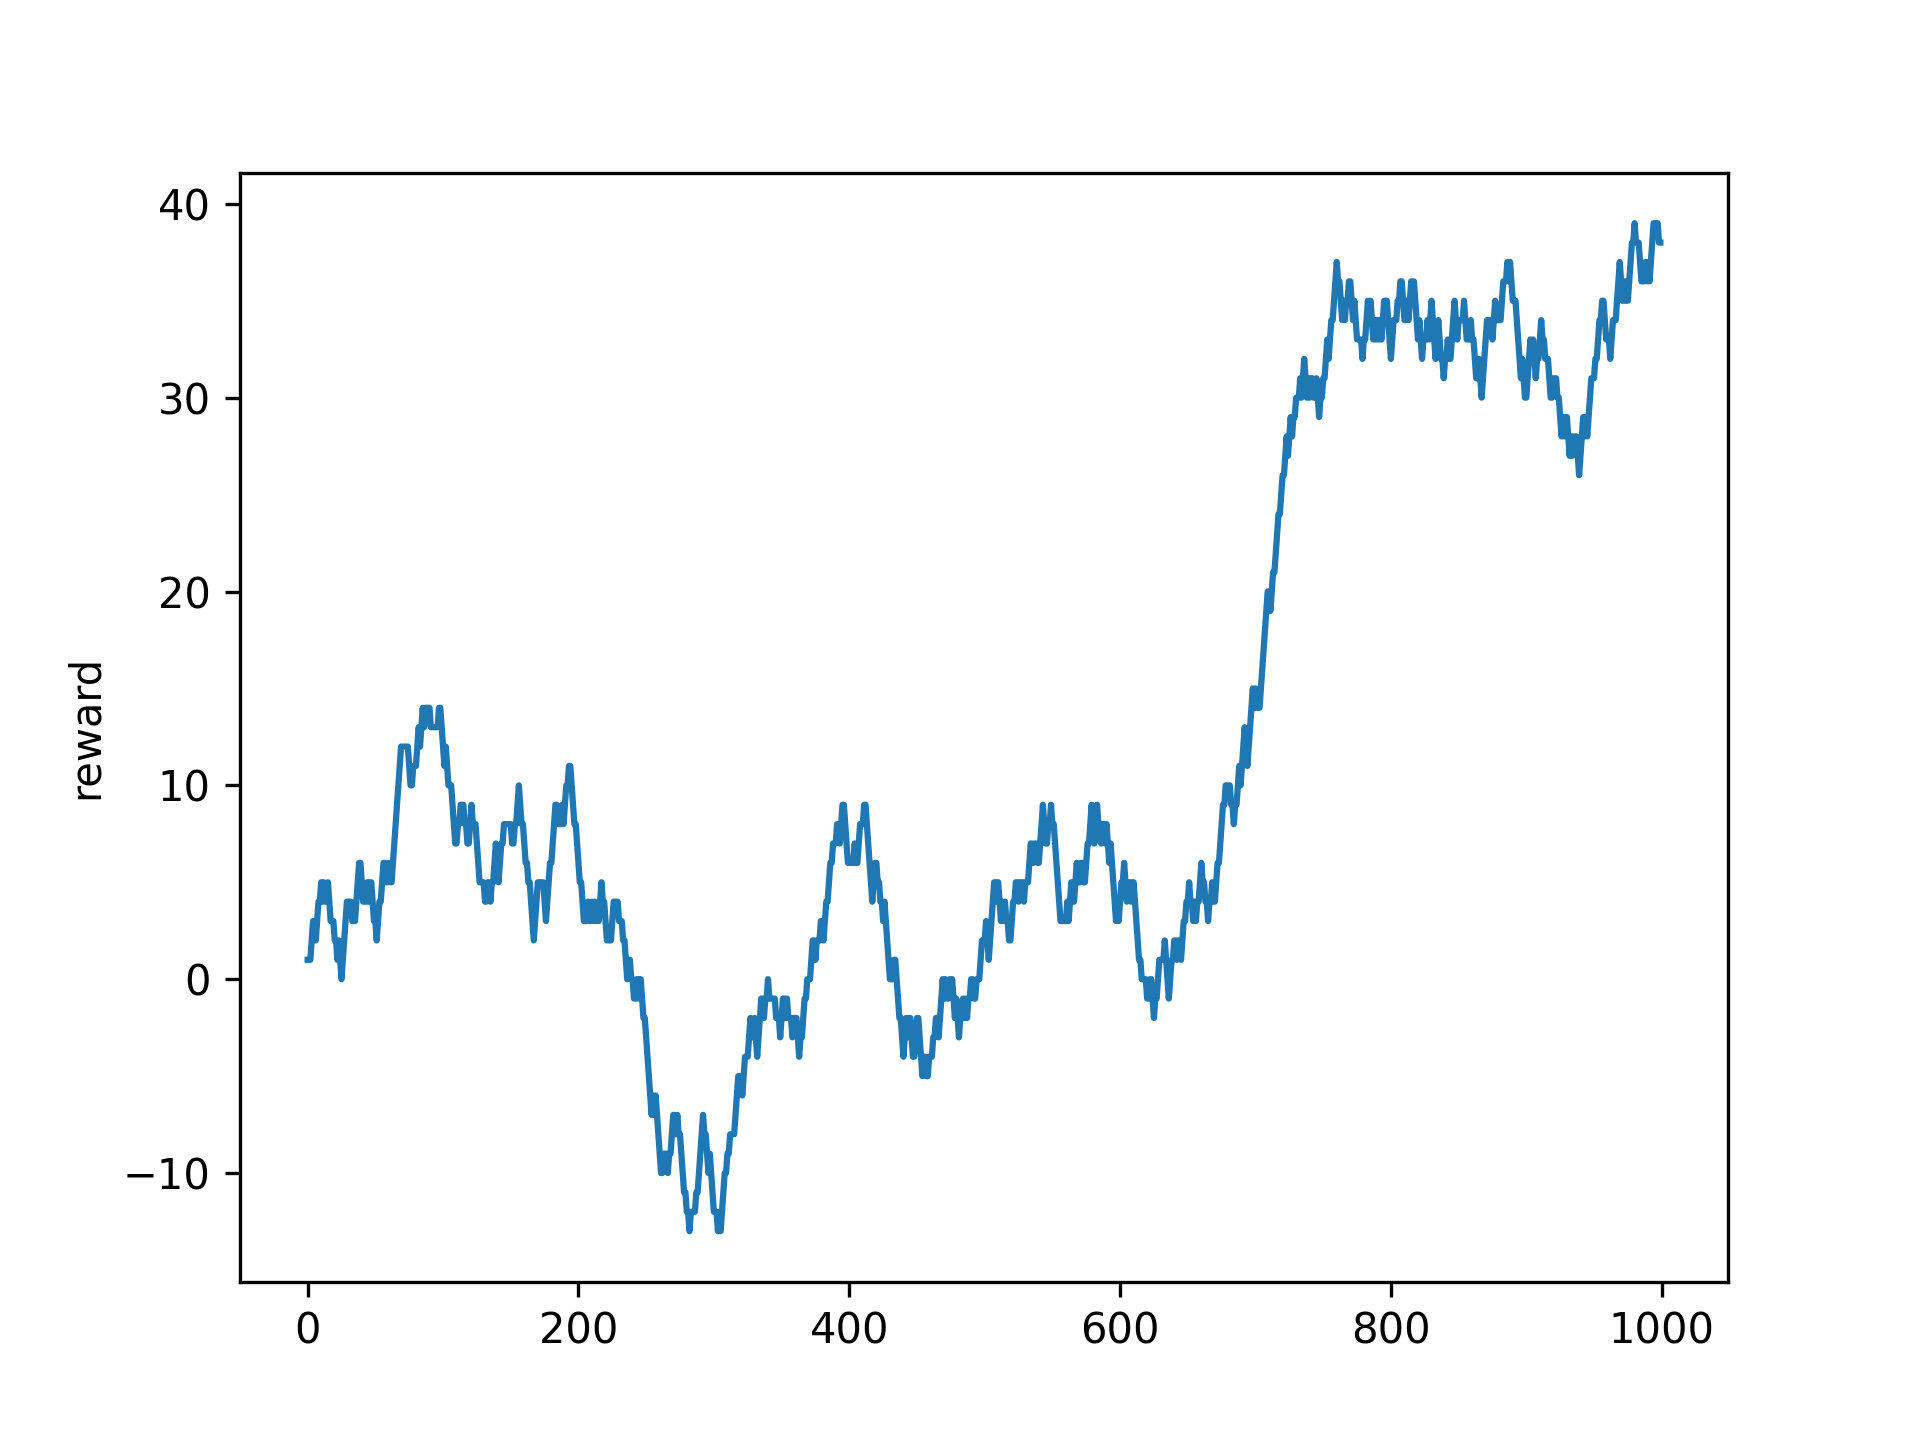
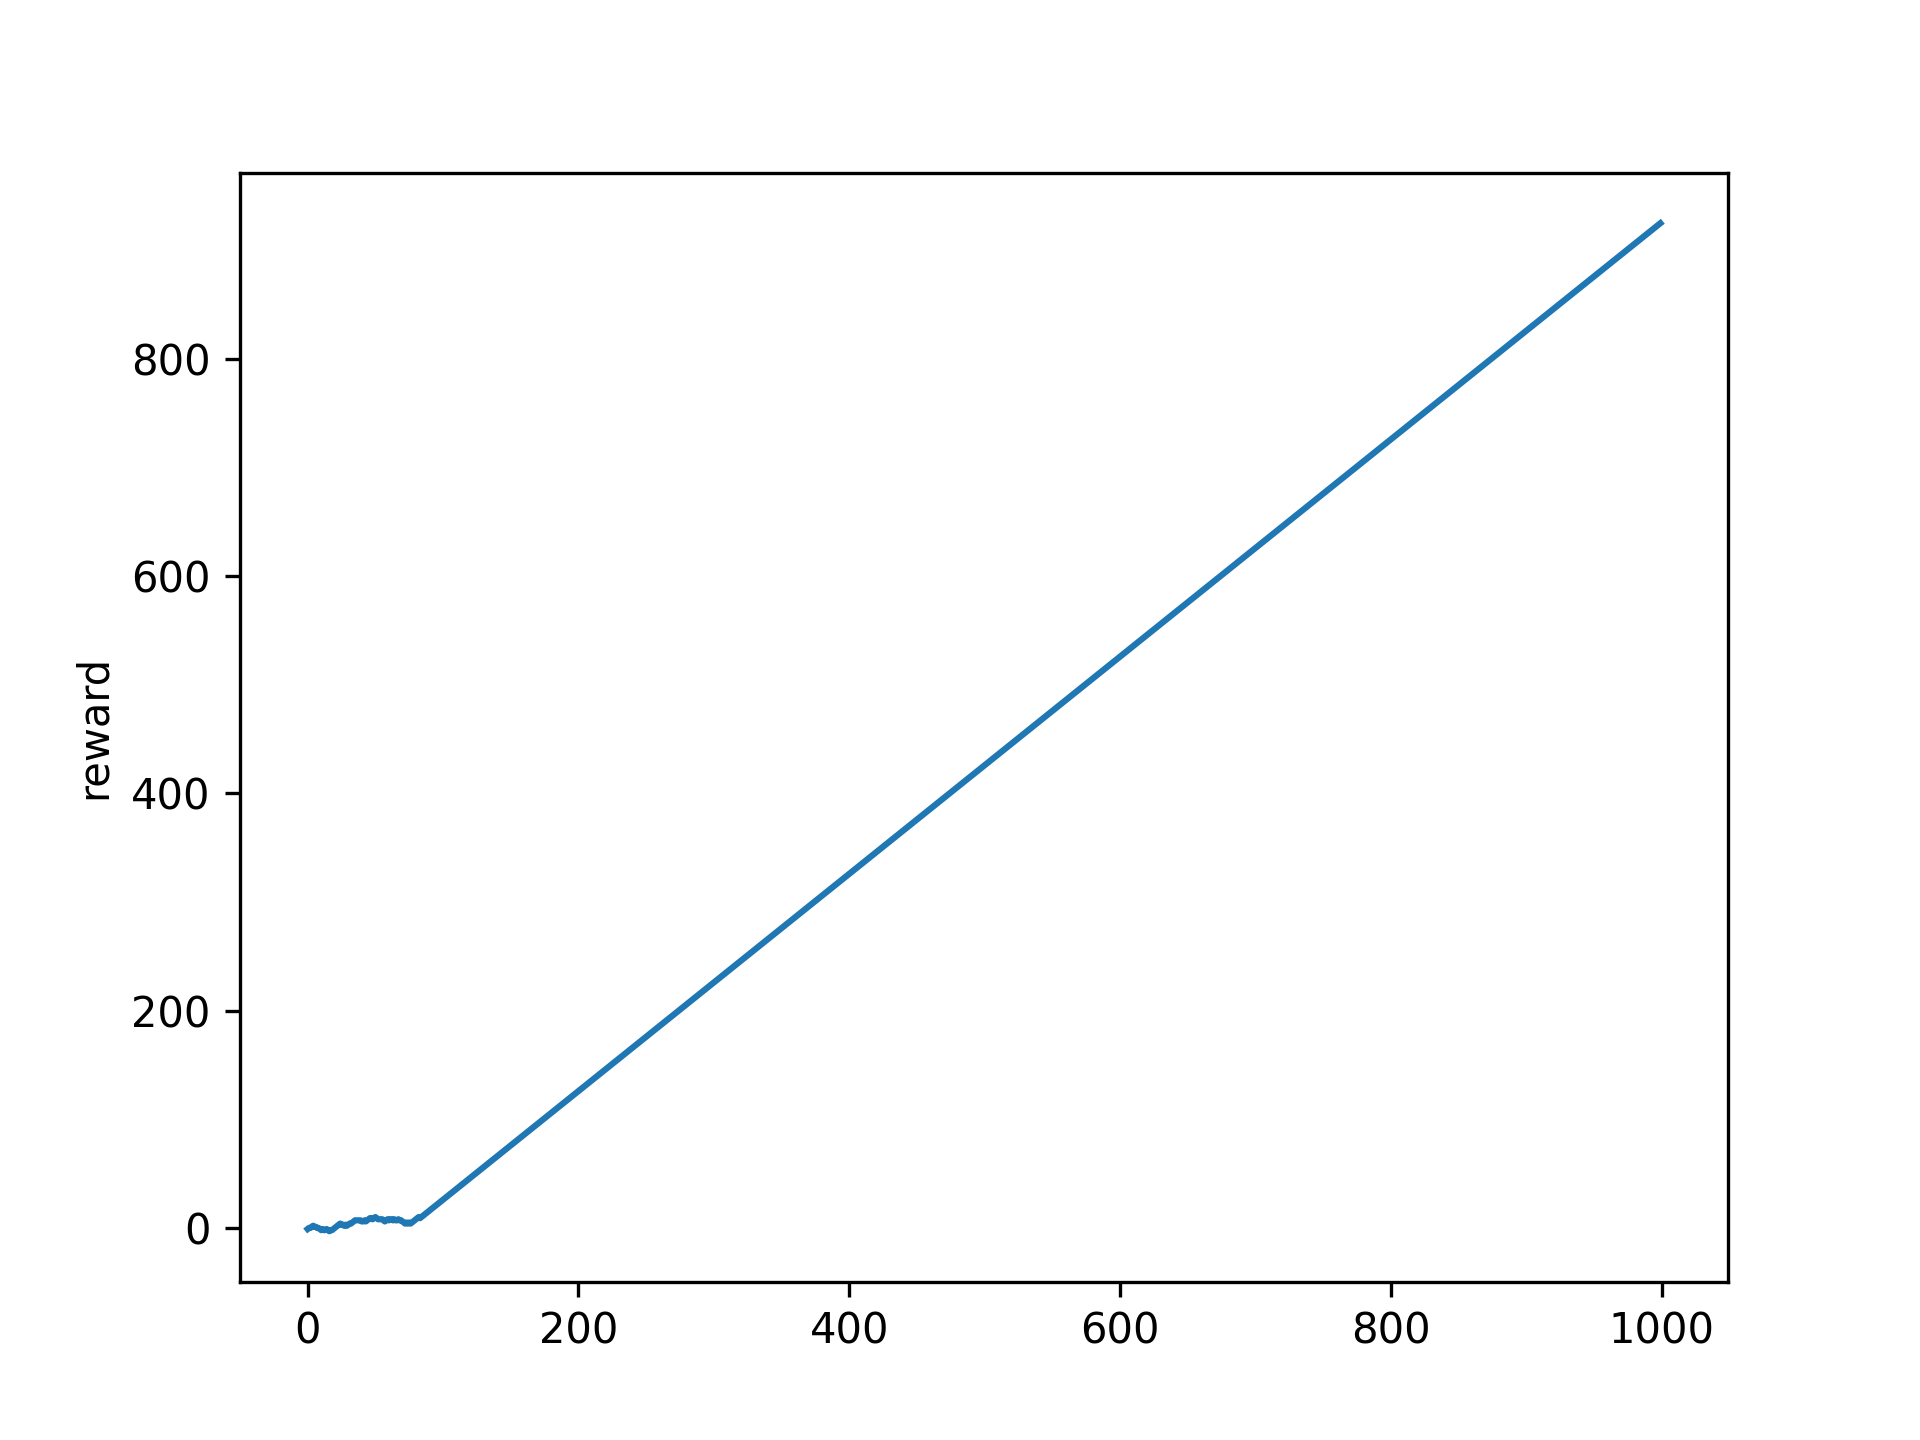
more and more

diff --git a/rps_agent.py b/rps_agent.py
@@ -6,7 +6,8 @@ import numpy as np
 from abc import abstractmethod
 import math
 import secrets
-
+from xgboost import XGBClassifier
+import pandas as pd
 
 class Model():
     def __init__(self):
@@ -19,6 +20,49 @@ class Model():
     def action(self):
         return self.tactic
 
+class Xgboost(Model):
+    def __init__(self):
+        self.numTurnsPredictors = 5 #number of previous turns to use as predictors
+        self.minTrainSetRows = 10 #only start predicting moves after we have enough data
+        self.myLastMove = None
+        self.mySecondLastMove = None
+        self.opponentLastMove = None
+        self.numDummies = 2 #how many dummy vars we need to represent a move
+        self.predictors = pd.DataFrame(columns=[str(x) for x in range(self.numTurnsPredictors * 2 * self.numDummies)]).astype("int")
+        self.opponentsMoves = [0] * 1000
+        self.roundHistory = [None] * 1000
+        self.dummies = [[[0,0,0,0], [0,1,0,0], [1,0,0,0]], [[0,0,0,1], [0,1,0,1], [1,0,0,1]], [[0,0,1,0], [0,1,1,0], [1,0,1,0]]]
+        self.clf = XGBClassifier(n_estimators=10)
+
+    def updateFeatures(self, rounds):
+        self.predictors.loc[len(self.predictors)] = sum(rounds, [])
+
+    def fitAndPredict(self, x, y, newX):
+        self.clf.fit(x.values, y)
+        return int(self.clf.predict(np.array(newX).reshape((1,-1)))[0])
+
+    def train(self, my_actions, op_actions, reward, step, configuration):
+        T = step
+        A = op_actions[-1]
+        S = configuration.signs
+        self.myLastMove = A
+        self.roundHistory[T-1] = self.dummies[self.myLastMove][A]
+        if T == 1:
+            self.myLastMove = secrets.randbelow(S)
+        else:
+            self.opponentsMoves[T-2] = A
+            if T > self.numTurnsPredictors:
+                self.updateFeatures(self.roundHistory[:T][-self.numTurnsPredictors - 1: -1])
+
+            if len(self.predictors) > self.minTrainSetRows:
+                predictX = sum(self.roundHistory[:T][-self.numTurnsPredictors:], []) #data to predict next move
+                predictedMove = self.fitAndPredict(self.predictors, self.opponentsMoves[:T-1][(self.numTurnsPredictors-1):], predictX)
+                self.myLastMove = (predictedMove + 1) % S
+            else:
+                self.myLastMove = secrets.randbelow(S)
+
+    def action(self):
+        return int(self.myLastMove)          
 
 class PatternAggressive(Model):
     def __init__(self):
@@ -223,12 +267,15 @@ class DecisionTreeModel(Model):
             self.tactic = random.randint(0, 2)
         else:
             # Make One hot encoding
-            onehot_acts = np.zeros([len(my_actions)-self.rolling_window_size+1, 30])
+            onehot_acts = np.zeros(
+                [len(my_actions)-self.rolling_window_size+1, 30])
             y_train = np.zeros([len(my_actions)-self.rolling_window_size, 3])
             for i in range(self.rolling_window_size, len(my_actions)+1):
                 for j in range(1, self.rolling_window_size+1):
-                    onehot_acts[i-self.rolling_window_size][my_actions[i-j]+self.rolling_window_size+1*(j-1)] = 1
-                    onehot_acts[i-self.rolling_window_size][op_actions[i-j]+self.rolling_window_size+1*(j-1)+3] = 1
+                    onehot_acts[i-self.rolling_window_size][my_actions[i-j] +
+                                                            self.rolling_window_size+1*(j-1)] = 1
+                    onehot_acts[i-self.rolling_window_size][op_actions[i-j] +
+                                                            self.rolling_window_size+1*(j-1)+3] = 1
                 if i != len(my_actions):
                     y_train[i-self.rolling_window_size][op_actions[i]] = 1
             X_train = onehot_acts
@@ -297,46 +344,64 @@ class TransitionMatrix():
 
 class YapSapModel(Model):
     def __init__(self, frequency=10):
-        self.strategy = "PA"
+        self.strategy = "DT"
         self.init_frequency = frequency
         self.frequency = frequency
         self.iteration = 0
         self.tactic = 0
         self.prev_reward, self.curr_reward = 0, 0
-        self.strategy_history = {"TM": [], "DT": [], "MP": [], "PA":[]}
-        self.strategy_score = {"TM": [], "DT": [], "MP": [], "PA":[]}
+        self.strategy_history = {"TM": [], "DT": [], "MP": [], "PA": [], "XG" : []}
+        self.strategy_score = {"TM": [], "DT": [], "MP": [], "PA": [], "XG" : []}
         self.strategy_models = {"TM": TransitionMatrix(
-        ), "DT": DecisionTreeModel(), "MP": NumpyPatterns(), "PA":PatternAggressive()}
+        ), "DT": DecisionTreeModel(), "MP": NumpyPatterns(), "PA": PatternAggressive(), "XG" : Xgboost()}
 
-    def _get_zone(self, reward):
-        if reward <= -20:
-            return "Severe"
-        if reward <= -15:
-            return "Very Dangerous"
-        elif reward <= -10:
-            return "Dangerous"
-        elif reward <= 10:
-            return "Ok"
-        elif reward <= 15:
-            return "Try Harder"
-        elif reward < 20:
-            return "Almost There"
-        elif reward <= 30:
-            return "Pretty Good"
+    def _get_zone(self, reward, step):
+        if step < 900:
+            if reward <= -20:
+                return "Severe"
+            if reward <= -15:
+                return "Very Dangerous"
+            elif reward <= -10:
+                return "Dangerous"
+            elif reward <= 10:
+                return "Ok"
+            elif reward <= 15:
+                return "Try Harder"
+            elif reward < 20:
+                return "Almost There"
+            elif reward <= 30:
+                return "Pretty Good"
+            else:
+                return "Relax"
         else:
-            return "Relax"
+            if reward <= -20:
+                return "Severe"
+            if reward <= -15:
+                return "Very Dangerous"
+            elif reward <= -10:
+                return "Dangerous"
+            elif reward <= 0:
+                return "Try Harder"
+            elif reward <= 15:
+                return "Almost There"
+            elif reward < 20:
+                return "Almost There"
+            elif reward <= 30:
+                return "Pretty Good"
+            else:
+                return "Relax"
 
     def _update_frequency(self, reward, step):
-        zone = self._get_zone(reward)
+        zone = self._get_zone(reward, step)
         print(zone)
         if zone in ["Severe", "Almost There"]:
-            self.frequency = self.init_frequency - random.randint(6, 9)
+            self.frequency = self.init_frequency - random.randint(7, 10)
         elif zone in ["Very Dangerous", "Dangerous", "Try Harder"]:
-            self.frequency = self.init_frequency - random.randint(2, 5)
+            self.frequency = self.init_frequency - random.randint(4, 7)
         elif zone in ["Ok"]:
             self.frequency = self.init_frequency
         elif zone in ["Pretty Good", "Relax"]:
-            self.frequency = self.init_frequency + random.randint(6, 9)
+            self.frequency = self.init_frequency + random.randint(7, 10)
 
     @staticmethod
     def _measure_performance(strategy_history, op_actions):
@@ -352,7 +417,7 @@ class YapSapModel(Model):
         return reward
 
     def _update_strategy(self, op_actions, step):
-        if len(self.strategy_history[self.strategy]) < 5:
+        if self.strategy is not None and len(self.strategy_history[self.strategy]) < 10:
             return
         for strategy in self.strategy_history.keys():
             print(strategy, self.strategy_score[strategy])
@@ -361,11 +426,15 @@ class YapSapModel(Model):
 
         self.strategy = max(self.strategy_score, key=self.strategy_score.get)
 
-        if self.strategy_score[self.strategy] < -2 and step < 800:
-            self.strategy = None
-        # elif self.strategy_score[self.strategy] > 1:
-        #     # More aggressive
-        #     self.frequency=self.init_frequency - random.randint(6, 9)
+        if self.strategy is not None:
+            if self.strategy_score[self.strategy] < 1 and step < 800:
+                self.strategy = None
+            elif self.strategy_score[self.strategy] == 4:
+                # More aggressive
+                self.frequency = self.init_frequency - random.randint(7, 9)
+            elif self.strategy_score[self.strategy] == 5:
+                # More aggressive
+                self.frequency = 0
 
     def train(self, my_actions, op_actions, reward, step, configuration):
         import random
@@ -414,7 +483,7 @@ def update_score(reward, my_actions, op_actions):
 my_actions = np.empty((0, 0), dtype=int)
 op_actions = np.empty((0, 0), dtype=int)
 reward = 0
-model = NumpyPatterns()
+model = YapSapModel()
 
 
 def rps_agent(observation, configuration):

diff --git a/mock_battler.py b/mock_battler.py
@@ -1,7 +1,7 @@
 from rps_agent import rps_agent
 import sparring_partner.white_belt.mirror_shift_1 as mirror_shift
-import sparring_partner.white_belt.reactionary as reactionary
-import sparring_partner.black_belt.greenberg as greenberg
+import sparring_partner.white_belt.counter_reactionary as counter_reactionary
+import sparring_partner.blue_belt.transition_matrix as transition_matrix
 import sparring_partner.black_belt.iocane_powder as iocane_powder
 import test_partner
 import matplotlib.pyplot as plt
@@ -72,7 +72,9 @@ class MockBattler():
 
 
 # #rps_agent
-mb = MockBattler(rps_agent, greenberg.greenberg_agent)
+mb = MockBattler(rps_agent, counter_reactionary.counter_reactionary)
+#counter_reactionary.counter_reactionary
+#transition_matrix.transition_agent
 mb.run()
 # def get_result(match_settings):
 #     start = datetime.now()
